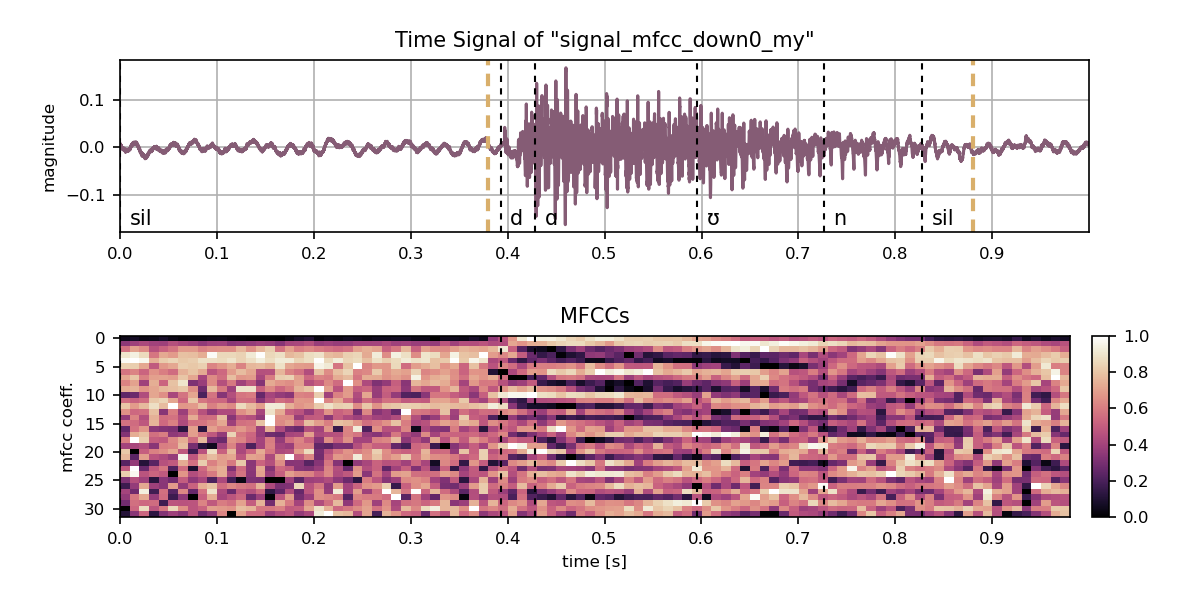
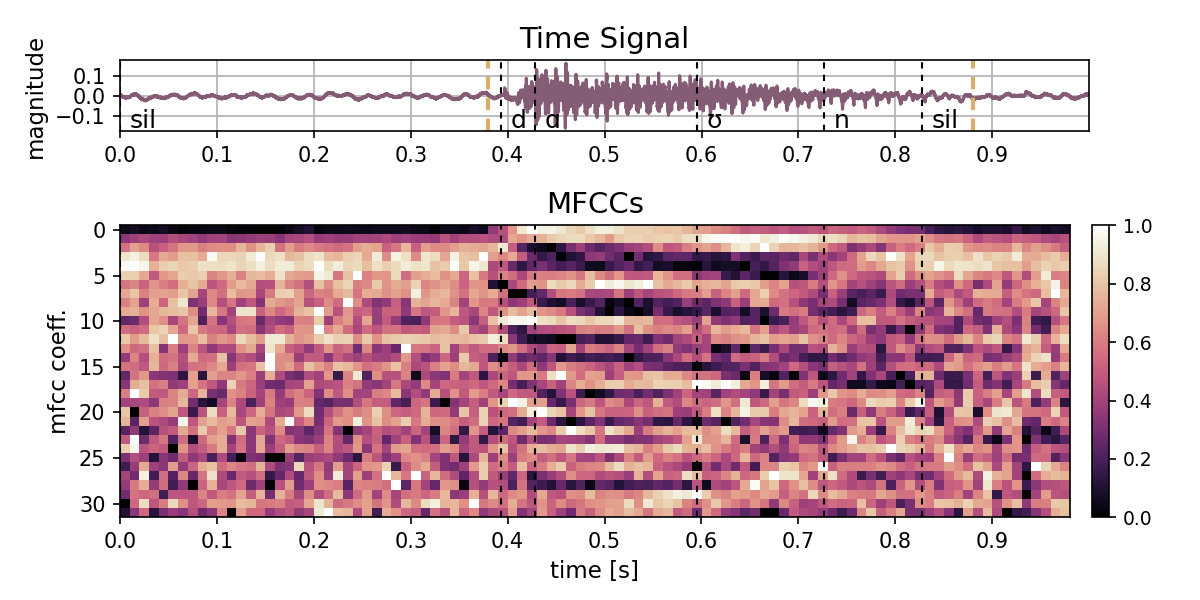
menu II

diff --git a/docu/thesis/3_signal/signal_spec.tex b/docu/thesis/3_signal/signal_spec.tex
@@ -3,23 +3,43 @@
 
 \section{Spectral Features}\label{sec:signal_spec}
 Spectral Features, such as a spectrogram, are the most intuitive form to represent audio waveforms. 
-They illustrate which frequencies are active at each time instance using a fixed analytic window $t_N$, shifted on the time axis with a time interval, denoted as hop time $t_{hop}$.
+They illustrate which frequencies are active at each time instance using a fixed analytic window $t_N$, shifted on the time axis with a time interval, denoted as hop time $t_{h}$.
 The analytic window containing a number of $N$ audio samples, is transformed with the Discrete Time Fourier Transform (DTFT):
 
 % DTFT
 \begin{equation}\label{eq:signal_spec_dtft}
     X[k] = \sum_{n=0}^{N-1} x[n] \, e^{-j\frac{2 \pi n}{N}k}
 \end{equation}
-into the frequency space with frequency index $k$, sample index $n$ and therefore discrete audio samples $x[n]$.
+into the frequency space with frequency index $k$, sample index $n$ and discrete audio samples $x[n]$.
+\req{signal_spec_dtft} can be conveniently written in matrix notation with:
+\begin{equation}\label{eq:signal_spec_dtft_matrix}
+    X[k] = D\, x[n] \quad \mathrm{with} 
+    \quad D[p, q] = e^{-j\frac{2 \pi p}{N} q},
+    \quad p, q = 0 \dots N-1
+\end{equation}
+
 The length of the analytic window in samples $N$ is crucial for the frequency resolution and the lowest frequency that can be represented.
 For example, the periodic time of a sound with $f=\SI{20}{\hertz}$ is $t=\frac{1}{f} = \SI{50}{\milli\second}$.
-To represent a waveform it would be good to have at least a quarter of its wavelength captured.
+To represent a waveform it is necessary to have at least a quarter of its wavelength captured.
 Within this thesis, the length of the analytic window is selected to \SI{25}{\milli\second}.
 
 The other important parameter is the hop size (in samples) or hop time, by which the analytical window is shifted on the time axis.
-This parameter indicates the resolution in time
-In applications like speech processing, the hop time should be selected so that the fastest pronounced phone is within this time span and that changes to other phones are as well captured with enough resolution.
-Usually a hop time of $t_{hop}=\SI{10}{\milli\second}$ is chosen (also used within this thesis), but could be also extended like in \cite{Peter2020} to $t_{hop}=\SI{20}{\milli\second}$ for saving computations.
+This parameter indicates the resolution in time and is especially important for changes.
+In applications like speech processing, the hop time should be selected so that the fastest pronounced phone is within this time span and that changes to other phones are as well captured with sufficient resolution.
+Usually a hop time of $t_{h}=\SI{10}{\milli\second}$ is chosen (also used within this thesis), but it could be extended like in \cite{Peter2020} to $t_{h}=\SI{20}{\milli\second}$ for saving computations.
+
+With those parameters in mind and $h$ denoted as hop size in samples and $N$ the length of the analytical window, the Short-Time Fourier Transform (STFT) for discrete time signals, can be computed as:
+\begin{equation}\label{eq:signal_spec_stft}
+    X[m, k] = \sum_{n=0}^{N-1} x[n + m] \, w[n] \, e^{-j\frac{2 \pi n}{N}k}, \qquad m = 0 \cdot h, \, 1 \cdot h, \, \dots, \, M \cdot h 
+    %X[m, \omega] = \sum_{n=-\infty}^{\infty} x[n] \, w[n-m] \, e^{-j\omega n}
+    %X[m, k] = \sum_{n=-\infty}^{\infty} x[n] \, w[n-m] \, e^{-j k n}
+\end{equation}
+note that $n$ is here the summation index, $w$ is a window function, such as the \emph{Hanning} window, $m$ indicates the hop index and $M$ is the maximum number of hops.
+The maximum number of hops $M$ are all shifts of the analytic window by the hop size on the discrete time axis and can be computed as:
+\begin{equation}\label{eq:signal_spec_hop}
+  M = \frac{n-N}{h}
+\end{equation}
+where $n$ is here the length of the discrete time signal $x$.
 
 
 
@@ -29,7 +49,7 @@ Usually a hop time of $t_{hop}=\SI{10}{\milli\second}$ is chosen (also used with
 
 
 
-A spectrogram with linear representation is shown in \rfig{spec-lin}.
+A spectrogram with linear representation is shown in \rfig{signal_spec_lin_examples}.
 
 \begin{figure}[!ht]
   \centering
@@ -39,13 +59,13 @@ A spectrogram with linear representation is shown in \rfig{spec-lin}.
     \subfigure[down]{\includegraphics[width=0.45\textwidth]{./3_signal/figs/signal_spec-lin_down0_my}}
     \subfigure[go]{\includegraphics[width=0.45\textwidth]{./3_signal/figs/signal_spec-lin_go0_my}}
   \caption{Spectrogram linear scaled.}
-  \label{fig:spec-lin}
+  \label{fig:signal_spec_lin_examples}
 \end{figure}
 \FloatBarrier
 \noindent
 
 One can see here, that most of the energy of the signal is in the lower frequency regions under 1kHz.
-It is more interesting to go into the log scale, shown in \rfig{spec-log}
+It is more interesting to go into the log scale, shown in \rfig{signal_spec_log_examples}
 
 \begin{figure}[!ht]
   \centering
@@ -55,7 +75,7 @@ It is more interesting to go into the log scale, shown in \rfig{spec-log}
     \subfigure[down]{\includegraphics[width=0.45\textwidth]{./3_signal/figs/signal_spec-log_down0_my}}
     \subfigure[go]{\includegraphics[width=0.45\textwidth]{./3_signal/figs/signal_spec-log_go0_my}}
   \caption{Spectrogram logarithmic scaled.}
-  \label{fig:spec-log}
+  \label{fig:signal_spec_log_examples}
 \end{figure}
 \FloatBarrier
 \noindent

diff --git a/docu/thesis/3_signal/signal_raw.tex b/docu/thesis/3_signal/signal_raw.tex
@@ -2,16 +2,30 @@
 % raw audio
 
 \section{Raw Audio Waveforms}\label{sec:raw_audio}\label{sec:signal_raw}
-Physical acoustic waves are recorded by microphones, translating mechanical vibrations to electrical signals, which can be stored to waveform files.
-The Focus is here only on the raw waveform files and its data.
-First it is to mention that waveform files are stored in some kind of audio format, for example \texttt{.wav} files, using parameters such as bit resolution, e.g. \SI{32}{\bit} floating point, and most importantly a sample rates $f_s$. 
+Physical acoustic waves can be recorded by microphones, translating mechanical vibrations to electrical signals. 
+Those electrical signals are further stored in so called \emph{waveform files} or \emph{audio files}.
+
+First it is to mention that waveform files are stored with a specific audio format, for example \texttt{.wav} files, using parameters such as bit resolution, e.g. \SI{32}{\bit} floating point, and most importantly a sample rates $f_s$. 
 The sample rate tells, which frequency range of the continuous acoustic waves form is possible to store in a discrete representation.
-This is restricted by the Nyquist-Shannon sampling theorem, where the maximal frequency of the signal should not be larger than the half of the sampling frequency, otherwise aliasing effects occur. 
-Thats why a usual CD format has a sampling frequency of \SI{44.1}{\kilo\hertz} resulting in a maximum frequency of \SI{22.05}{\kilo\hertz}, and usually humans do not hear above \SI{20}{\kilo\hertz} frequencies.
-However it is also possible to go far beyond those \SI{44.1}{\kilo\hertz}, as it is used in telephone systems with a sampling rate of 8kHz.
-This is because, voice does not need that high sampling frequency to be understandable and with enough quality.
-The audio files of the speech command dataset are recorded with a sampling rate of \SI{16}{\kilo\hertz}, which is totally enough for human speech.
-Further those audio files in the speech command dataset have a time length of 1s.
+This is restricted by the Nyquist-Shannon sampling theorem, where the maximal frequency of the signal $f_{x_{max}}$ should not be larger than the half of the sampling frequency: 
+\begin{equation}\label{eq:signal_raw_nyquist}
+  f_{x_{max}} < \frac{fs}{2}
+\end{equation}
+to prevent aliasing effects.
+
+That is the reason, why a compact disc (CD) format has a sampling frequency of \SI{44.1}{\kilo\hertz} resulting in a maximum signal frequency of \SI{22.05}{\kilo\hertz}.
+Using the fact that usually humans do not hear above \SI{20}{\kilo\hertz} frequencies.
+However it is also possible to go far beyond those \SI{44.1}{\kilo\hertz}, for instance used in telephone systems, where the sampling rate is \SI{8}{\kilo\hertz}.
+It is possible to reduce the sampling rate, because voice does not need such a high sampling frequency, as for instance music does, to have sufficient quality and being understandable.
+
+With the sampling frequency known, a discrete time signal of an audio recording $x \in \R^n$ can be expressed in vector notation:
+\begin{equation}\label{eq:signal_raw_x}
+  x = [x_1,\, x_2,\, \dots,\, x_n]^T
+\end{equation}
+with a total number of samples $n$.
+
+The audio files provided in the speech command dataset \cite{Warden2018} used for the experiments in \rsec{exp}, are recorded with a sampling rate of \SI{16}{\kilo\hertz}, which is totally enough for human speech.
+Further those audio files in the speech command dataset usually have a time length of \SI{1}{\second}.
 The author of this thesis recorded his own speech commands with one example of each command shown in \rfig{raw_audio_my}.
 
 \begin{figure}[!ht]

diff --git a/plots.py b/plots.py
@@ -810,10 +810,9 @@ def plot_textGrid_annotation(anno_file, x=None, hop_space=None, plot_text=False,
       if plot_text: plt.text(s + 0.01, h, l, color=color, fontsize=get_fontsize('anno'))
 
 
-def plot_mfcc_profile(x, fs, N, hop, mfcc, sep_features=True, diff_plot=False, cmap=None, cmap_wav=None, anno_file=None, onsets=None, bon_pos=None, mient=None, minreg=None, frame_size=32, plot_path=None, name='mfcc_profile', enable_plot=True, show_plot=True):
+def plot_mfcc_profile(x, fs, N, hop, mfcc, sep_features=True, diff_plot=False, cmap=None, cmap_wav=None, anno_file=None, onsets=None, bon_pos=None, mient=None, minreg=None, frame_size=32, plot_path=None, name='mfcc_profile', enable_plot=True, close_plot=True, show_plot=True):
   """
   plot mfcc extracted features from audio file
-  mfcc: [m x l]
   """
 
   # to image data
@@ -878,7 +877,8 @@ def plot_mfcc_profile(x, fs, N, hop, mfcc, sep_features=True, diff_plot=False, c
     for onset in frames_to_time(np.array([bon_pos, bon_pos+frame_size]), fs, hop): plt.axvline(x=float(onset), dashes=(3, 2), color=get_colormap_from_context(context='wav-hline'), lw=2)
 
   # layout of time plot
-  ax.set_title('Time Signal of ' + '"' + name + '"', fontsize=get_fontsize('title')), ax.set_ylabel("magnitude", fontsize=get_fontsize('title'))
+  #ax.set_title('Time Signal of ' + '"' + name + '"', fontsize=get_fontsize('title')), ax.set_ylabel("magnitude", fontsize=get_fontsize('title'))
+  ax.set_title('Time Signal', fontsize=get_fontsize('title')), ax.set_ylabel("magnitude", fontsize=get_fontsize('axis_label'))
   ax.set_xlim([0, t[-1]]), ax.grid()
 
   # select mfcc coeffs in arrays
@@ -936,7 +936,10 @@ def plot_mfcc_profile(x, fs, N, hop, mfcc, sep_features=True, diff_plot=False, c
   plt.subplots_adjust(left=0.1, bottom=0.00, right=0.97, top=0.93, wspace=0, hspace=0) if mfcc.shape[0] == 39 and sep_features else plt.subplots_adjust(left=0.1, bottom=0.00, right=0.94, top=0.90, wspace=0, hspace=0) 
 
   # plot and close
-  if plot_path is not None: plt.savefig(plot_path + name + '.png', dpi=150), plt.close()
+  if plot_path is not None: plt.savefig(plot_path + name + '.png', dpi=150)
+
+  # close plot
+  if close_plot: plt.close()
 
   # show plot
   if show_plot: plt.show()
@@ -1076,7 +1079,7 @@ def plot_mel_band_weights(w_f, w_mel, f, m, cmap=None, plot_path=None, name='mel
   ax.plot(f, w_f.T)
 
   # layout
-  plt.ylabel('magnitude'), plt.xlabel('frequency [Hz]'), plt.grid()
+  plt.ylabel('magnitude', fontsize=get_fontsize('axis_label')), plt.xlabel('frequency [Hz]', fontsize=get_fontsize('axis_label')), plt.grid()
 
   # tight plot
   plt.tight_layout()
@@ -1095,7 +1098,7 @@ def plot_mel_band_weights(w_f, w_mel, f, m, cmap=None, plot_path=None, name='mel
   ax.plot(m, w_mel.T)
 
   # layout
-  plt.ylabel('magnitude'), plt.xlabel('mel [mel]'), plt.grid()
+  plt.ylabel('magnitude', fontsize=get_fontsize('axis_label')), plt.xlabel('mel [mel]', fontsize=get_fontsize('axis_label')), plt.grid()
 
   # tight plot
   plt.tight_layout()

diff --git a/not_relevant/thesis_visuals.py b/not_relevant/thesis_visuals.py
@@ -96,6 +96,7 @@ def showcase_wavs(cfg, raw_plot=True, spec_plot=True, mfcc_plot=True, show_plot=
   # change params
   feature_params = cfg['feature_params'].copy()
   feature_params['n_ceps_coeff'] = 32
+  feature_params['norm_features'] = True
 
   # init feature extractor
   feature_extractor = FeatureExtractor(feature_params)
@@ -120,9 +121,10 @@ def showcase_wavs(cfg, raw_plot=True, spec_plot=True, mfcc_plot=True, show_plot=
       plot_spec_profile(x, feature_extractor.calc_spectogram(x).T, feature_params['fs'], feature_extractor.N, feature_extractor.hop, anno_file=anno, plot_path=plot_path, title=wav.split('/')[-1].split('.')[0]+'_my', name='signal_spec-lin_' + wav.split('/')[-1].split('.')[0] + '_my', show_plot=show_plot)
       plot_spec_profile(x, feature_extractor.calc_spectogram(x).T, feature_params['fs'], feature_extractor.N, feature_extractor.hop, log_scale=True, anno_file=anno, plot_path=plot_path, title=wav.split('/')[-1].split('.')[0]+'_my', name='signal_spec-log_' + wav.split('/')[-1].split('.')[0] + '_my', show_plot=show_plot)
 
+    # mfcc
     if mfcc_plot:
       mfcc, bon_pos = feature_extractor.extract_mfcc(x, reduce_to_best_onset=False)
-      plot_mfcc_profile(x, cfg['feature_params']['fs'], feature_extractor.N, feature_extractor.hop, mfcc, anno_file=anno, sep_features=True, bon_pos=bon_pos, frame_size=cfg['feature_params']['frame_size'], plot_path=plot_path, name='signal_mfcc_' + wav.split('/')[-1].split('.')[0] + '_my', show_plot=show_plot)
+      plot_mfcc_profile(x, cfg['feature_params']['fs'], feature_extractor.N, feature_extractor.hop, mfcc, anno_file=anno, sep_features=True, bon_pos=bon_pos, frame_size=cfg['feature_params']['frame_size'], plot_path=plot_path, name='signal_mfcc_' + wav.split('/')[-1].split('.')[0] + '_my', close_plot=False, show_plot=show_plot)
 
 
 def feature_selection_tables(overwrite=False):
@@ -206,11 +208,11 @@ if __name__ == '__main__':
   cfg = yaml.safe_load(open("../config.yaml"))
 
   # mfcc stuff
-  mfcc_stuff(cfg)
+  #mfcc_stuff(cfg)
 
   # showcase wavs
   #showcase_wavs(cfg, raw_plot=True, spec_plot=True, mfcc_plot=True, show_plot=False)
-  #showcase_wavs(cfg, raw_plot=False, spec_plot=True, mfcc_plot=True, show_plot=True)
+  showcase_wavs(cfg, raw_plot=False, spec_plot=False, mfcc_plot=True, show_plot=True)
 
   # feature selection tables
   #feature_selection_tables(overwrite=True)

diff --git a/game/menu.py b/game/menu.py
@@ -3,6 +3,9 @@ menues
 """
 
 import pygame
+import pathlib
+
+from glob import glob
 
 from color_bag import ColorBag
 from interactable import Interactable
@@ -26,7 +29,7 @@ class Menu(Interactable):
 
     # text
     self.text = Text(self.screen)
-    self.text.render_small_msg('main menu', (0, 0))
+    self.text.render_small_msg('menu', (0, 0))
 
     # game logic
     self.game_logic = MenuGameLogic(self)
@@ -40,11 +43,11 @@ class Menu(Interactable):
     # selection
     self.sel = 0
 
-    # max selection
-    self.max_sel = 3
-
-    # buttons
+    # button dict, selection: applications
     self.button_dict = {0: 'start', 1: 'options', 2: 'exit'}
+
+    # max selection
+    self.max_sel = len(self.button_dict)
 
 
   def button_state_update(self):
@@ -130,6 +133,51 @@ class Menu(Interactable):
     return next_loop
 
 
+
+class MainMenu(Menu):
+  """
+  main menu
+  """
+
+  def __init__(self, cfg_game, screen):
+
+    # Parent init
+    super().__init__(cfg_game, screen)
+
+    # button dict, selection: applications
+    self.button_dict = {0: 'start', 1: 'options', 2: 'exit'}
+
+    # max selection
+    self.max_sel = len(self.button_dict)
+
+    # text
+    self.text.render_small_msg('main menu', (0, 0))
+
+    # root for sprites
+    self.button_path = str(pathlib.Path(__file__).parent.absolute()) + "/art/buttons/sprites/"
+
+    # button images
+    self.button_images = [pygame.image.load(s).convert_alpha() for s in glob(self.button_path + '*.png')]
+
+
+  def button_enter(self):
+    """
+    button enter
+    """
+
+    print("enter button: ", self.sel)
+
+    # start game
+    if self.button_dict[self.sel] == 'start': pass
+
+    # options
+    elif self.button_dict[self.sel] == 'options': pass
+
+    # exit
+    elif self.button_dict[self.sel] == 'exit': self.game_logic.run_loop = False
+
+
+
 if __name__ == '__main__':
   """
   main
@@ -148,7 +196,7 @@ if __name__ == '__main__':
   screen = pygame.display.set_mode(cfg['game']['screen_size'])
 
   # menu
-  menu = Menu(cfg['game'], screen)
+  menu = MainMenu(cfg['game'], screen)
 
   # run menu loop
   menu.menu_loop()

diff --git a/docu/thesis/3_signal/signal_mfcc.tex b/docu/thesis/3_signal/signal_mfcc.tex
@@ -5,6 +5,19 @@
 Most commonly the Mel Frequency Cepstral Coefficients (MFCC) are used as input features for Neural Network classifications tasks of audio data.
 It is described why they are good features and how they can be visualized to understand them better.
 
+\begin{figure}[!ht]
+  \centering
+    \subfigure[left]{\includegraphics[width=0.45\textwidth]{./3_signal/figs/signal_mfcc_left0_my}}
+    \subfigure[right]{\includegraphics[width=0.45\textwidth]{./3_signal/figs/signal_mfcc_right0_my}}
+    \subfigure[up]{\includegraphics[width=0.45\textwidth]{./3_signal/figs/signal_mfcc_up0_my}}
+    \subfigure[down]{\includegraphics[width=0.45\textwidth]{./3_signal/figs/signal_mfcc_down0_my}}
+    \subfigure[go]{\includegraphics[width=0.45\textwidth]{./3_signal/figs/signal_mfcc_go0_my}}
+  \caption{MFCC visualized with frame-based normalization.}
+  \label{fig:signal_mfcc_examples}
+\end{figure}
+\FloatBarrier
+\noindent
+
 \subsection{The Idea behind}
 To comprehend the success and wide use of MFCCs features in Neural Networks and other machine learning applications, it is necessary to understand its processing scheme:
 Raw audio samples are transformed into the frequency domain with the Short-Time Fourier Transform (STFT).

diff --git a/docu/thesis/0_shards/time_log.tex b/docu/thesis/0_shards/time_log.tex
@@ -224,6 +224,8 @@
 % 450
 08.05.2021: menu, 1h\\
 10.05.2021: menu, feature docu and resnet, 4h\\
+11.05.2021: menu, stft docu, 3h\\
+
 
 % overall time
 \vspace{0.5cm}
